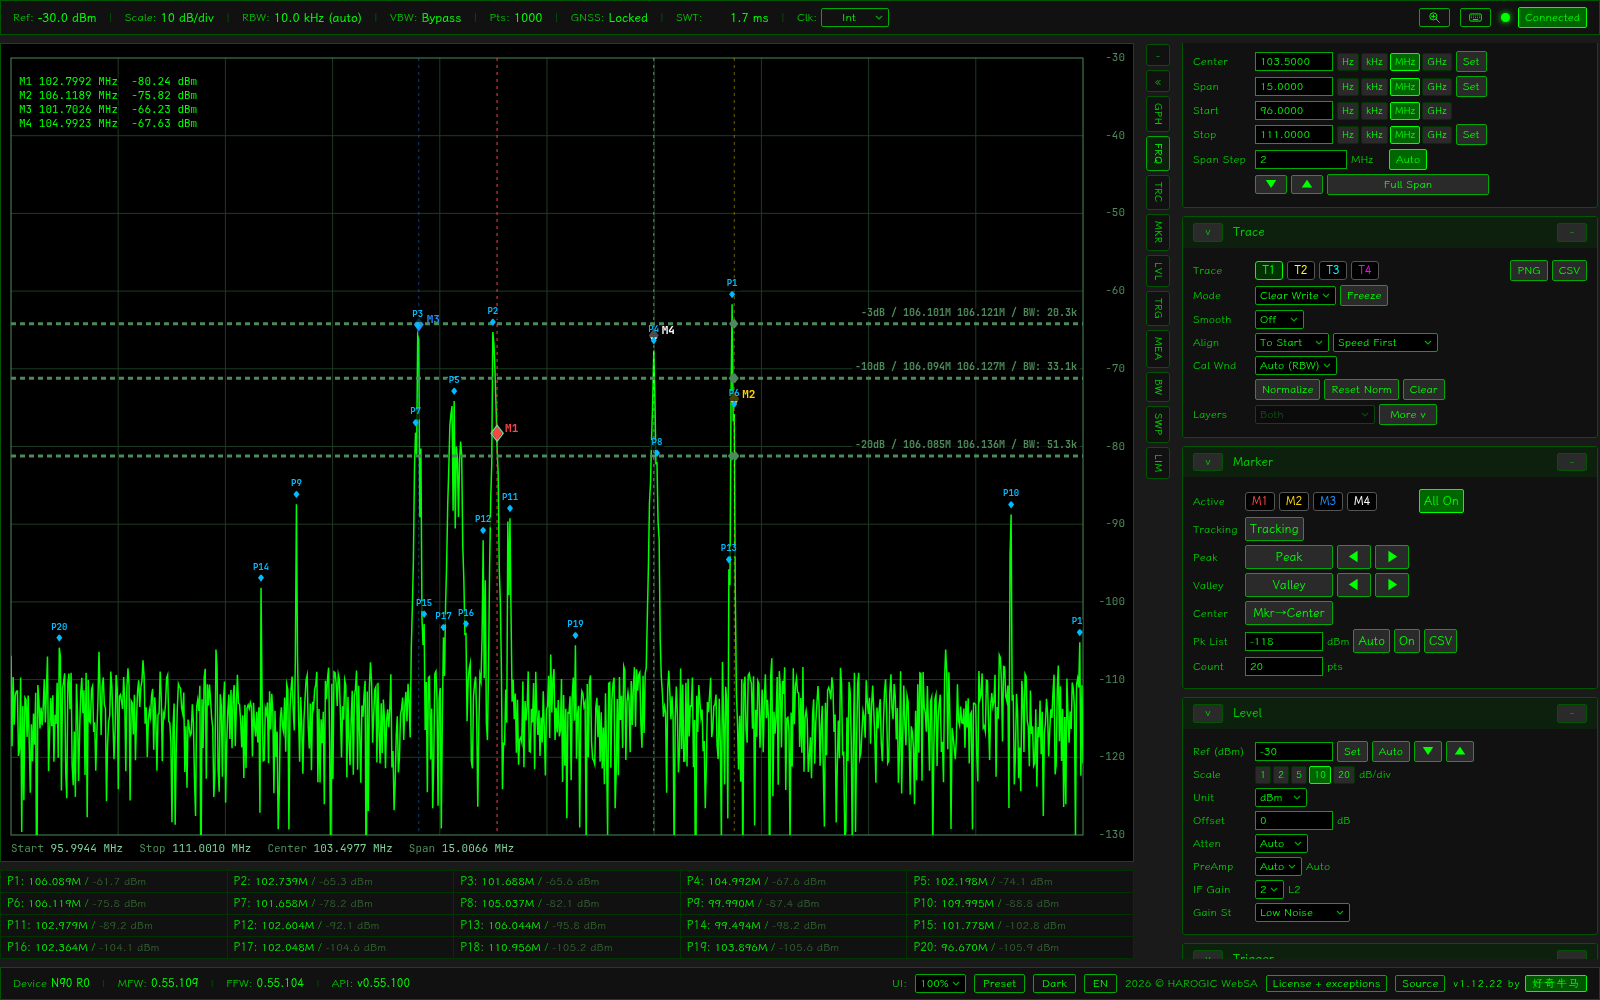
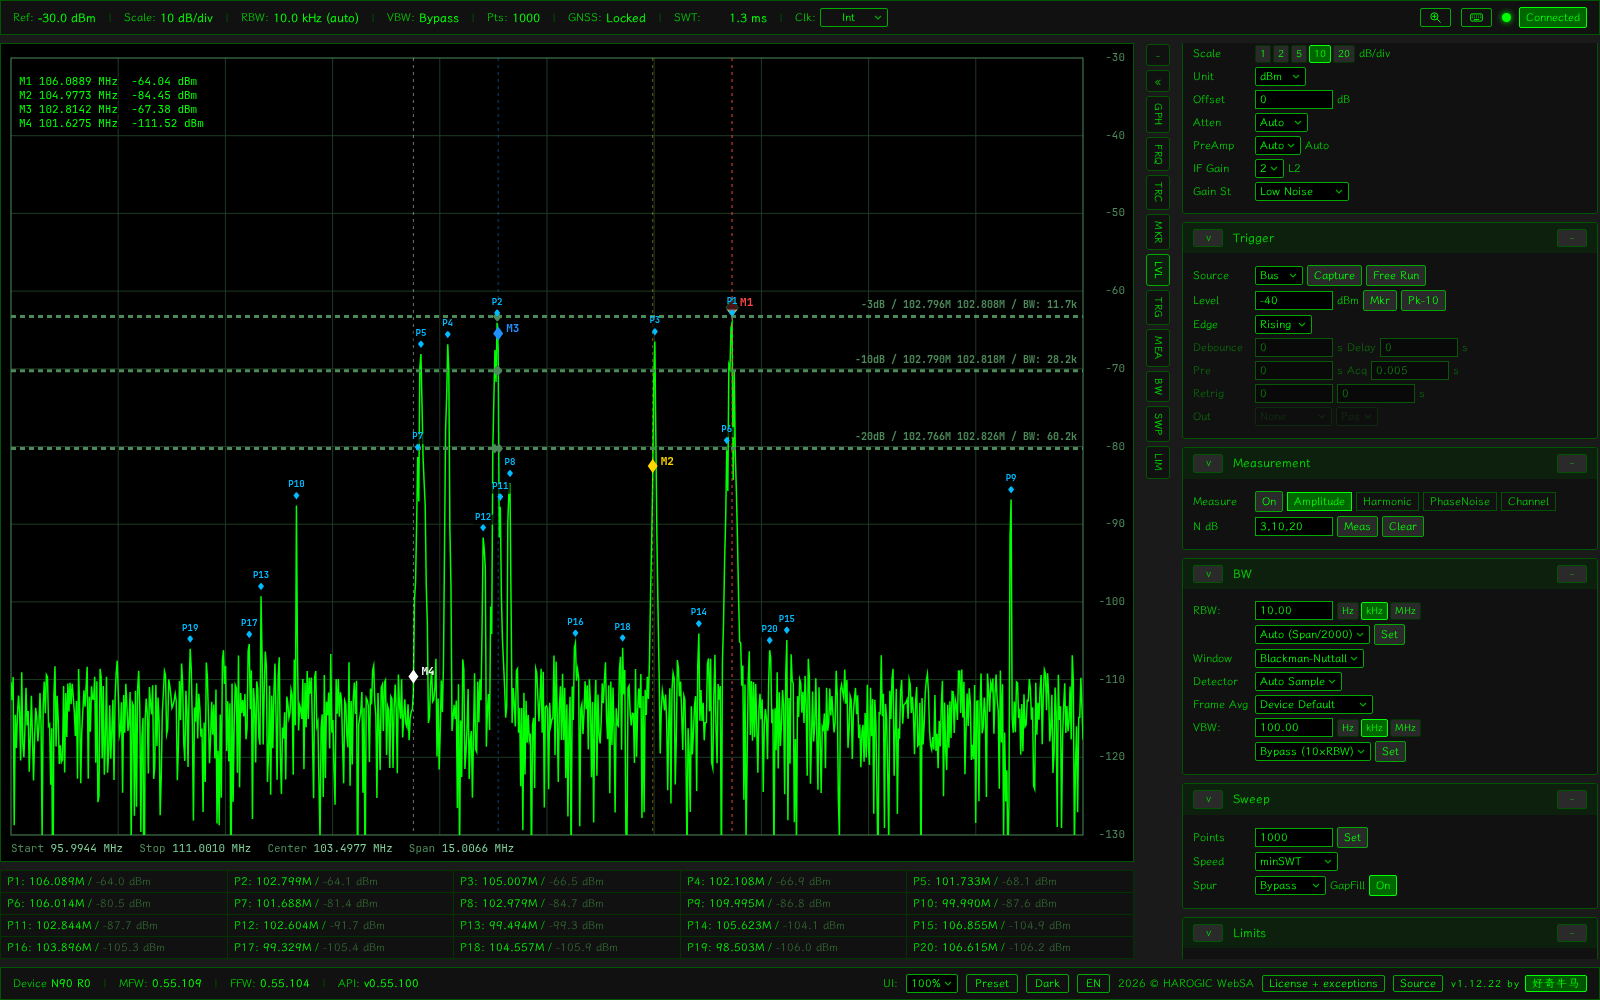
Sync scan response and admission schemas with the native service
Validate scan summaries and optional candidate guards without relaxing unknown-field checks. Cover malformed scan fields, correct the native test/build reminder, and show measurement controls in both screenshot languages.

diff --git a/tests/test_lifecycle.py b/tests/test_lifecycle.py
@@ -382,6 +382,10 @@ def test_receiver_schema_covers_idle_processing_and_disabled_responses(launcher)
     # cannot pass by falling through to an unconstrained diagnostic object.
     for path, invalid in [
         (('action_token',), 7),
+        (('scan', 'running'), 'false'),
+        (('scan', 'probe_slots_used'), 2),
+        (('scan', 'state'), 'unknown'),
+        (('scan', 'unexpected'), True),
         (('capabilities', 'control_capacity'), '64'),
         (('capabilities', 'resource_policy'), 'unlimited'),
         (('host_resources', 'available_memory_bytes'), -1),
@@ -432,7 +436,11 @@ def test_receiver_schema_checks_nonempty_faults_and_recovery_history():
                    'precision': 'block', 'channel_id': '3', 'epoch': '9',
                    'input_index': '9007199254740993', 'fraction_num': '0', 'fraction_den': '1',
                    'input_rate': 62500000.0, 'delay_input_samples': 12.5}}
+    scan_guard = {'capture_epoch': '7', 'signal_id': 's1', 'signal_generation': '3'}
     cases = [
+        ('scan_guard', scan_guard, ('capture_epoch',), 7),
+        ('scan_guard', scan_guard, ('signal_generation',), 3),
+        ('scan_guard', scan_guard, ('unexpected',), True),
         ('processing_fault', fault, ('generation',), '7'),
         ('processing_fault', fault, ('last_success', 'input_index'), 9007199254740993),
         ('processing_fault', fault, ('kind',), 'normal'),
